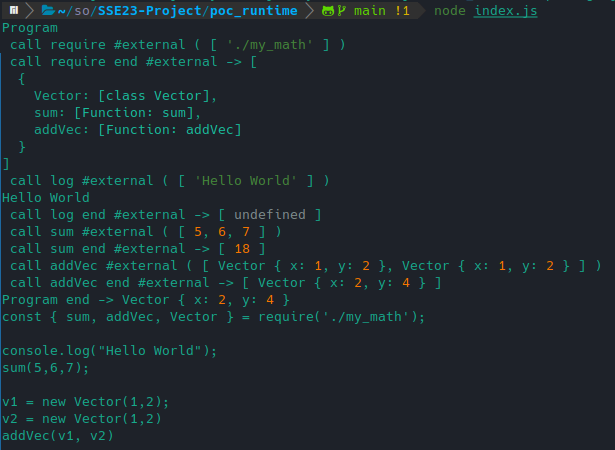
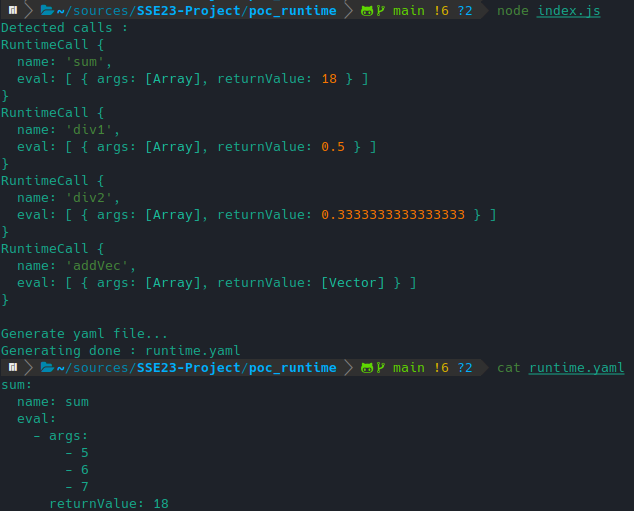
Add schema and generate yaml with iroh

diff --git a/poc_runtime/index.js b/poc_runtime/index.js
@@ -1,5 +1,19 @@
 const Iroh = require("iroh");
 const fs = require('fs');
+const yaml = require('js-yaml');
+
+class RuntimeCall {
+  constructor(name) {
+    this.name = name;
+    this.eval = [];
+  }
+
+  setEvaluation(args, returnValue) {
+    this.eval.push({args, returnValue})
+  }
+}
+
+var exceptions = ["require", "log"];
 
 fs.readFile('exec.js', 'utf8', (err, data) => {
   if (err) {
@@ -9,54 +23,37 @@ fs.readFile('exec.js', 'utf8', (err, data) => {
 
   let stage = new Iroh.Stage(data);
 
+  let calls = {};
+
   // function call
   stage.addListener(Iroh.CALL)
-    .on("before", (e) => {
-      let external = e.external ? "#external" : "";
-      console.log(" ".repeat(e.indent) + "call", e.name, external, "(", e.arguments, ")");
-      //console.log(e.getSource());
-    })
     .on("after", (e) => {
-      let external = e.external ? "#external" : "";
-      console.log(" ".repeat(e.indent) + "call", e.name, "end", external, "->", [e.return]);
-      //console.log(e.getSource());
-    });
+      let func_name = e.name;
 
-  // function
-  stage.addListener(Iroh.FUNCTION)
-    .on("enter", (e) => {
-      let sloppy = e.sloppy ? "#sloppy" : "";
-      if (e.sloppy) {
-        console.log(" ".repeat(e.indent) + "call", e.name, sloppy, "(", e.arguments, ")");
-        //console.log(e.getSource());
-      }
-    })
-    .on("leave", (e) => {
-      let sloppy = e.sloppy ? "#sloppy" : "";
-      if (e.sloppy) {
-        console.log(" ".repeat(e.indent) + "call", e.name, "end", sloppy, "->", [void 0]);
-        //console.log(e.getSource());
-      }
-    })
-    .on("return", (e) => {
-      let sloppy = e.sloppy ? "#sloppy" : "";
-      if (e.sloppy) {
-        console.log(" ".repeat(e.indent) + "call", e.name, "end", sloppy, "->", [e.return]);
-        //console.log(e.getSource());
+      if (!exceptions.includes(func_name)) {
+        if (calls[func_name] == null) {
+          calls[func_name] = new RuntimeCall(func_name)
+        }
+
+        calls[func_name].setEvaluation(e.arguments, e.return)
       }
     });
 
   // program
-  stage.addListener(Iroh.PROGRAM)
-    .on("enter", (e) => {
-      console.log(" ".repeat(e.indent) + "Program");
-    })
-    .on("leave", (e) => {
-      console.log(" ".repeat(e.indent) + "Program end", "->", e.return);
-    });
 
   eval(stage.script);
 
+  console.log("Detected calls : ")
 
-  console.log(data);
+  for(var key in calls) {
+    var value = calls[key];
+    console.log(value);
+  }
+
+  console.log("\nGenerate yaml file...")
+
+  let yamlStr = yaml.dump(calls);
+  let file_path = "runtime.yaml"
+  fs.writeFileSync(file_path, yamlStr, "utf8");
+  console.log("Generating done : " + file_path);
 });

diff --git a/poc_runtime/my_math.js b/poc_runtime/my_math.js
@@ -2,6 +2,14 @@ function sum(a, b, c){
   return a+b+c
 }
 
+function div1(a,b){
+  return a/b;
+}
+
+function div2(a,b){
+  return a/(b+1);
+}
+
 class Vector {
   constructor(x, y) {
     this.x = x;
@@ -13,4 +21,4 @@ function addVec(v1, v2){
   return new Vector(v1.x+v2.x, v1.y+v2.y);
 }
 
-module.exports = { Vector, sum, addVec };
+module.exports = { Vector, sum, div1, div2, addVec };

diff --git a/poc_runtime/exec.js b/poc_runtime/exec.js
@@ -1,8 +1,15 @@
-const { sum, addVec, Vector } = require('./my_math');
+const { sum, addVec, Vector, div1, div2 } = require('./my_math');
 
-console.log("Hello World");
+// sum of 3 numbers
 sum(5,6,7);
 
+// division a/b
+div1(1,2);
+
+// division a/(b+1)
+div2(1,2);
+
+// add 2d vectors
 v1 = new Vector(1,2);
 v2 = new Vector(1,2)
 addVec(v1, v2)

diff --git a/README.md b/README.md
@@ -2,6 +2,8 @@
 
 Software Engineering Seminar - 2023
 
+![Schema](docs/images/schema.png)
+
 [PoC Runtime Analysis](poc_runtime/README.md)
 
 [PoC Wrapper](poc_wrapper/README.md)
